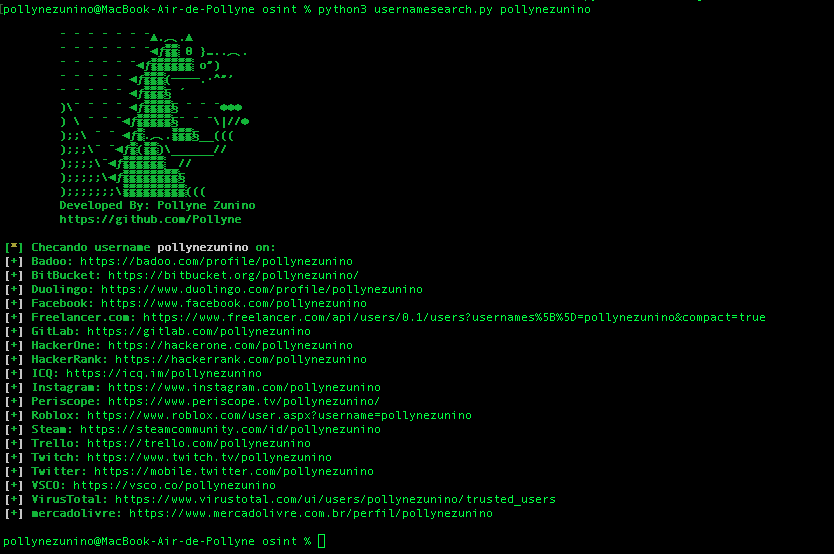
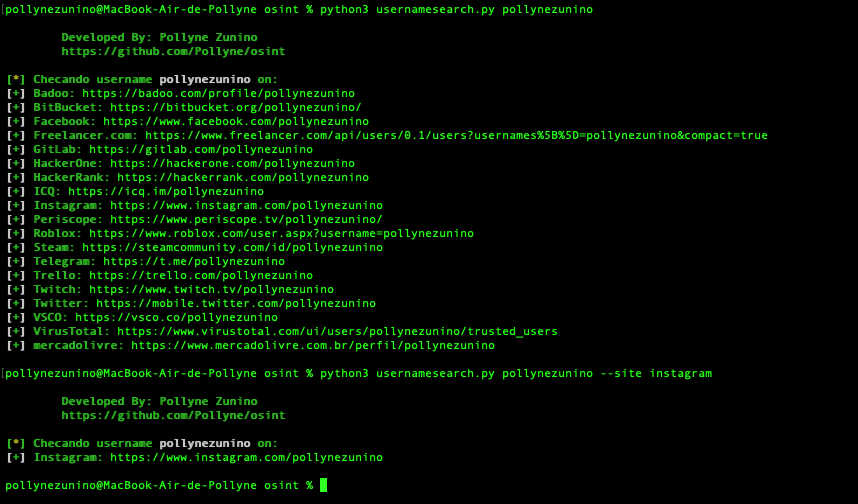
Ajustes Finais

Changed region(s): [[0.0, 0.0595, 0.9041, 0.9821], [0.0, 0.0, 0.717, 0.0298], [0.717, 0.7143, 0.8417, 0.7738]]

diff --git a/banner/banner.py b/banner/banner.py
@@ -3,20 +3,8 @@ class Banner(object):
         try:
             from termcolor import cprint
             banner = '''
-        ¨ ¨ ¨ ¨ ¨ ¨ ¨▲.︵.▲
-        ¨ ¨ ¨ ¨ ¨ ¨ ¨◄ƒ░░ 0 }…..︵.
-        ¨ ¨ ¨ ¨ ¨ ¨◄ƒ░░░░░░ o”)
-        ¨ ¨ ¨ ¨ ¨ ◄ƒ░░░(────.·^”’
-        ¨ ¨ ¨ ¨ ¨ ◄ƒ░░░§ ´
-        )\¨ ¨ ¨ ¨ ◄ƒ░░░░§ ¨ ¨ ¨✺✺✺
-        ) \ ¨ ¨ ¨◄ƒ░░░░░§¨ ¨ ¨\|//✺
-        );;\ ¨ ¨ ◄ƒ░.︵.░░░§__(((
-        );;;\¨ ¨◄ƒ░(░░)\______//
-        );;;;\¨◄ƒ░░░░░░__//
-        );;;;;\◄ƒ░░░░░░░░§
-        );;;;;;;\░░░░░░░░░(((
         Developed By: Pollyne Zunino
-        https://github.com/Pollyne      
+        https://github.com/Pollyne/osint      
             '''
             cprint(banner, 'green', attrs=['bold'])
 

diff --git a/README.md b/README.md
@@ -1,174 +1,82 @@
 # OSINT
-Ferramentas de Osint
-
-## Instalação
-1) ``git clone https://github.com/Pollyne/osint.git``<br/>
-2) ``cd osint``<br/>
-3) ``python3 -m pip install -r requirements.txt``<br/>
-
-# DarkSearch - Buscas na deepweb em seu terminal 
-
-## Sobre Darksearch
-Darksearch é um script simples escrito em python 3 onde o usuario pode realizar queries na deepweb via terminal usando a API darksearch.io. 
-
+```text
+Darksearch pode realizar queries na deepweb via terminal usando a API darksearch.io
 Baseado no projeto: https://github.com/josh0xA/darkdump
 
-## Uso 
-Example 1: ``python3 darksearch.py -h``<br/>
-Example 2: ``python3 darksearch.py -q hackers``<br/>
-Example 3: ``python3 darksearch.py -v``<br/>
-Example 4: ``python3 darksearch.py -q hackers --page 2``<br/>
- - Nota: O argumento 'page' filtra as paginas de acordo com a quantidade de resultados, por default ele lista os resultados da pagina 1 <br/>
-
-## Menu
-```
-
-        ¨ ¨ ¨ ¨ ¨ ¨ ¨▲.︵.▲
-        ¨ ¨ ¨ ¨ ¨ ¨ ¨◄ƒ░░ 0 }…..︵.
-        ¨ ¨ ¨ ¨ ¨ ¨◄ƒ░░░░░░ o”)
-        ¨ ¨ ¨ ¨ ¨ ◄ƒ░░░(────.·^”’
-        ¨ ¨ ¨ ¨ ¨ ◄ƒ░░░§ ´
-        )\¨ ¨ ¨ ¨ ◄ƒ░░░░§ ¨ ¨ ¨✺✺✺
-        ) \ ¨ ¨ ¨◄ƒ░░░░░§¨ ¨ ¨\|//✺
-        );;\ ¨ ¨ ◄ƒ░.︵.░░░§__(((
-        );;;\¨ ¨◄ƒ░(░░)\______//
-        );;;;\¨◄ƒ░░░░░░__//
-        );;;;;\◄ƒ░░░░░░░░§
-        );;;;;;;\░░░░░░░░░(((
-        Developed By: Pollyne Zunino
-        https://github.com/Pollyne      
-            
-usage: darksearch.py [-h] [-v] [-q QUERY] [-p PAGE]
-
-optional arguments:
-  -h, --help            show this help message and exit
-  -v, --version
-  -q QUERY, --query QUERY
-  -p PAGE, --page PAGE
-
-```
-## Visual
-<p align="center">
-  <img src="https://github.com/Pollyne/osint/blob/main/imagens/darksearch_output.png?raw=true">
-</p>
-
-# numberverify - Informações de um número de telefone baseado na API numberverify
-
-## Sobre numberverify
-numberverify é um script simples escrito em python 3 onde o usuario pode realizar buscas sobre um determinado numero de telefone via terminal usando a API numberverify (https://numverify.com/dashboard)
-
+Numberverify realiza buscas sobre um determinado numero de telefone via terminal usando a API numberverify
+https://numverify.com/dashboard
 Baseado no projeto: https://github.com/sundowndev/phoneinfoga
 
-## configuração de chave para API
+Usernamesearch busca pelo username em diversos sites predefinidos em resources/data.json (Lista completa em sites.md)
+Baseado no projeto: https://github.com/sherlock-project/sherlock
+```
+## Instalação 
 
-Criar um regristro grátis no site (https://numverify.com/) em (https://numverify.com/dashboard) copiar a Chave para a API 
+```bash
+git clone https://github.com/Pollyne/osint.git
+cd osint
+python3 -m pip install -r requirements.txt
+
+# Para o Numberverify é necessário configurar a API
+# Crie um registro grátis no site https://numverify.com/
+# Em https://numverify.com/dashboard copiar a Chave.
+# No arquivo numberverify.py em access_key="CHAVE_API_AQUI" substituir pela chave.
+```
 
 <p align="center">
   <img src="https://github.com/Pollyne/osint/blob/main/imagens/chave_numberverify.png?raw=true">
 </p>
 
-Colocar sua CHAVE no local indicado: (access_key="CHAVE_API_AQUI")
-
 <p align="center">
   <img src="https://github.com/Pollyne/osint/blob/main/imagens/chave_api.png?raw=true">
 </p>
 
-## Uso 
-Example 1: ``python3 numberverify.py -h``<br/>
-Example 2: ``python3 numberverify.py -n +5585988405936``<br/>
+## Uso
 
-## Menu
+```bash
+# Darksearch
+python3 darksearch.py -h
+python3 darksearch.py -q hackers
+python3 darksearch.py -v
+python3 darksearch.py -q hackers --page 2
+
+# O argumento 'page' filtra as paginas
+# de acordo com a quantidade de resultados,
+# por default ele lista os resultados da pagina 1 
 ```
 
-        ¨ ¨ ¨ ¨ ¨ ¨ ¨▲.︵.▲
-        ¨ ¨ ¨ ¨ ¨ ¨ ¨◄ƒ░░ 0 }…..︵.
-        ¨ ¨ ¨ ¨ ¨ ¨◄ƒ░░░░░░ o”)
-        ¨ ¨ ¨ ¨ ¨ ◄ƒ░░░(────.·^”’
-        ¨ ¨ ¨ ¨ ¨ ◄ƒ░░░§ ´
-        )\¨ ¨ ¨ ¨ ◄ƒ░░░░§ ¨ ¨ ¨✺✺✺
-        ) \ ¨ ¨ ¨◄ƒ░░░░░§¨ ¨ ¨\|//✺
-        );;\ ¨ ¨ ◄ƒ░.︵.░░░§__(((
-        );;;\¨ ¨◄ƒ░(░░)\______//
-        );;;;\¨◄ƒ░░░░░░__//
-        );;;;;\◄ƒ░░░░░░░░§
-        );;;;;;;\░░░░░░░░░(((
-        Developed By: Pollyne Zunino
-        https://github.com/Pollyne      
-            
-usage: numberverify.py [-h] [-n number] [-o output]
-
-optional arguments:
-  -h, --help            show this help message and exit
-  -n number, --number number
-  -o output, --output output
-
+```bash
+# Numberverify
+python3 numberverify.py -h
+python3 numberverify.py -n +5585988405936
 ```
 
-## Visual
+```bash
+# Usernamesearch
+python3 usernamesearch.py pollynezunino
+python3 usernamesearch.py pollynezunino --print-all
+python3 usernamesearch.py pollynezunino --version
+python3 usernamesearch.py pollynezunino --verbose
+python3 usernamesearch.py pollynezunino --site instagram
+```
+
+## Darksearch
+<p align="center">
+  <img src="https://github.com/Pollyne/osint/blob/main/imagens/darksearch_output.png?raw=true">
+</p>
+
+## Numberverify
 <p align="center">
   <img src="https://github.com/Pollyne/osint/blob/main/imagens/numberverify_output.png?raw=true">
 </p>
 
-# usernamesearch - Busca pelo username em diversos sites 
-
-## Sobre usernamesearch
-Script simples que busca pelo username em diversos sites predefinidos em resources/data.json (Lista completa em sites.md). 
-
-Baseado no projeto: https://github.com/sherlock-project/sherlock
-
-## Uso 
-
-Example 1: ``python3 usernamesearch.py pollynezunino``<br/>
-Example 2: ``python3 usernamesearch.py pollynezunino --print-all``<br/>
-Example 3: ``python3 usernamesearch.py pollynezunino --version``<br/>
-Example 4: ``python3 usernamesearch.py pollynezunino --verbose``<br/>
-Example 5: ``python3 usernamesearch.py pollynezunino --site instagram``<br/>
-
-## Menu
-```
-
-        ¨ ¨ ¨ ¨ ¨ ¨ ¨▲.︵.▲
-        ¨ ¨ ¨ ¨ ¨ ¨ ¨◄ƒ░░ 0 }…..︵.
-        ¨ ¨ ¨ ¨ ¨ ¨◄ƒ░░░░░░ o”)
-        ¨ ¨ ¨ ¨ ¨ ◄ƒ░░░(────.·^”’
-        ¨ ¨ ¨ ¨ ¨ ◄ƒ░░░§ ´
-        )\¨ ¨ ¨ ¨ ◄ƒ░░░░§ ¨ ¨ ¨✺✺✺
-        ) \ ¨ ¨ ¨◄ƒ░░░░░§¨ ¨ ¨\|//✺
-        );;\ ¨ ¨ ◄ƒ░.︵.░░░§__(((
-        );;;\¨ ¨◄ƒ░(░░)\______//
-        );;;;\¨◄ƒ░░░░░░__//
-        );;;;;\◄ƒ░░░░░░░░§
-        );;;;;;;\░░░░░░░░░(((
-        Developed By: Pollyne Zunino
-        https://github.com/Pollyne      
-            
-usage: usernamesearch.py [-h] [--version] [--verbose] [--output OUTPUT] [--site SITE_NAME] [--print-all] [--local] USERNAMES [USERNAMES ...]
-
-Buscando username em sites (Version 0.0.1)
-
-positional arguments:
-  USERNAMES
-
-optional arguments:
-  -h, --help            show this help message and exit
-  --version             show program's version number and exit
-  --verbose, -v, -d, --debug
-  --output OUTPUT, -o OUTPUT
-  --site SITE_NAME
-  --print-all
-  --local, -l
-
-```
-
-## Visual
+## Usernamesearch
 <p align="center">
   <img src="https://github.com/Pollyne/osint/blob/main/imagens/username_search.png?raw=true">
 </p>
 
-## Ethical Notice
-O desenvolvedor deste programa, Pollyne Zunino, não é responsável pelo uso indevido desta ferramenta de coleta de dados. Não use o darksearch para navegar em sites que participam de qualquer atividade identificada como ilegal de acordo com as leis e regulamentos de seu governo.
+## Aviso
+O desenvolvedor deste programa, não é responsável pelo uso indevido desta ferramenta de coleta de dados. Não use o darksearch para navegar em sites que participam de qualquer atividade identificada como ilegal de acordo com as leis e regulamentos de seu governo.
 
-## License 
-MIT License<br/>
-Copyright (c) Pollyne Zunino
-
+## Licença
+[MIT](https://choosealicense.com/licenses/mit/)

diff --git a/sites.md b/sites.md
@@ -1,52 +1,51 @@
-## Lista de Sites Suportados (51 Sites no Total!)
+## Lista de Sites Suportados (50 Sites no Total!)
 1. [Badoo](https://badoo.com/)
 2. [BitBucket](https://bitbucket.org/)
 3. [Blogger](https://www.blogger.com/)
 4. [Codecademy](https://www.codecademy.com/)
 5. [Docker Hub](https://hub.docker.com/)
 6. [Duolingo](https://duolingo.com/)
-7. [Ebay](https://www.ebay.com/)
-8. [Facebook](https://www.facebook.com/)
-9. [Flickr](https://www.flickr.com/)
-10. [Freelancer.com](https://www.freelancer.com/)
-11. [GitHub](https://www.github.com/)
-12. [GitLab](https://gitlab.com/)
-13. [HackTheBox](https://forum.hackthebox.eu/)
-14. [HackerNews](https://news.ycombinator.com/)
-15. [HackerOne](https://hackerone.com/)
-16. [HackerRank](https://hackerrank.com/)
-17. [ICQ](https://icq.com/)
-18. [Instagram](https://www.instagram.com/)
-19. [Myspace](https://myspace.com/)
-20. [Pastebin](https://pastebin.com/)
-21. [Periscope](https://www.periscope.tv/)
-22. [Pinterest](https://www.pinterest.com/)
-23. [PlayStore](https://play.google.com/store)
-24. [Reddit](https://www.reddit.com/)
-25. [Roblox](https://www.roblox.com/)
-26. [Scribd](https://www.scribd.com/)
-27. [Signal](https://community.signalusers.org)
-28. [Slack](https://slack.com)
-29. [SoundCloud](https://soundcloud.com/)
-30. [Spotify](https://open.spotify.com/)
-31. [Steam](https://steamcommunity.com/)
-32. [Telegram](https://t.me/)
-33. [TikTok](https://tiktok.com/)
-34. [Tinder](https://tinder.com/)
-35. [Trello](https://trello.com/)
-36. [TripAdvisor](https://tripadvisor.com/)
-37. [Twitch](https://www.twitch.tv/)
-38. [Twitter](https://mobile.twitter.com/)
-39. [VK](https://vk.com/)
-40. [VSCO](https://vsco.co/)
-41. [Vimeo](https://vimeo.com/)
-42. [VirusTotal](https://www.virustotal.com/)
-43. [Wattpad](https://www.wattpad.com/)
-44. [Wikipedia](https://www.wikipedia.org/)
-45. [YouTube](https://www.youtube.com/)
-46. [mercadolivre](https://www.mercadolivre.com.br)
+7. [Facebook](https://www.facebook.com/)
+8. [Flickr](https://www.flickr.com/)
+9. [Freelancer.com](https://www.freelancer.com/)
+10. [GitHub](https://www.github.com/)
+11. [GitLab](https://gitlab.com/)
+12. [HackTheBox](https://forum.hackthebox.eu/)
+13. [HackerNews](https://news.ycombinator.com/)
+14. [HackerOne](https://hackerone.com/)
+15. [HackerRank](https://hackerrank.com/)
+16. [ICQ](https://icq.com/)
+17. [Instagram](https://www.instagram.com/)
+18. [Myspace](https://myspace.com/)
+19. [Pastebin](https://pastebin.com/)
+20. [Periscope](https://www.periscope.tv/)
+21. [Pinterest](https://www.pinterest.com/)
+22. [PlayStore](https://play.google.com/store)
+23. [Reddit](https://www.reddit.com/)
+24. [Roblox](https://www.roblox.com/)
+25. [Scribd](https://www.scribd.com/)
+26. [Signal](https://community.signalusers.org)
+27. [Slack](https://slack.com)
+28. [SoundCloud](https://soundcloud.com/)
+29. [Spotify](https://open.spotify.com/)
+30. [Steam](https://steamcommunity.com/)
+31. [Telegram](https://t.me/)
+32. [TikTok](https://tiktok.com/)
+33. [Tinder](https://tinder.com/)
+34. [Trello](https://trello.com/)
+35. [TripAdvisor](https://tripadvisor.com/)
+36. [Twitch](https://www.twitch.tv/)
+37. [Twitter](https://mobile.twitter.com/)
+38. [VK](https://vk.com/)
+39. [VSCO](https://vsco.co/)
+40. [Vimeo](https://vimeo.com/)
+41. [VirusTotal](https://www.virustotal.com/)
+42. [Wattpad](https://www.wattpad.com/)
+43. [Wikipedia](https://www.wikipedia.org/)
+44. [WordPress](https://wordpress.com)
+45. [WordPressOrg](https://wordpress.org/)
+46. [YouTube](https://www.youtube.com/)
 47. [meetup](https://www.meetup.com/)
-48. [npm](https://www.npmjs.com/)
-49. [tumblr](https://www.tumblr.com)
-50. [WordPress](https://wordpress.com)
-51. [WordPressOrg](https://wordpress.org/)
+48. [mercadolivre](https://www.mercadolivre.com.br)
+49. [npm](https://www.npmjs.com/)
+50. [tumblr](https://www.tumblr.com)
